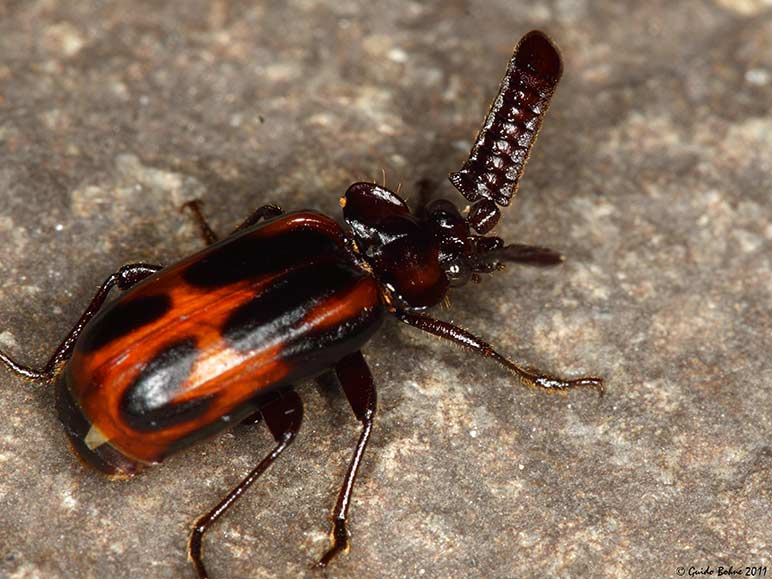
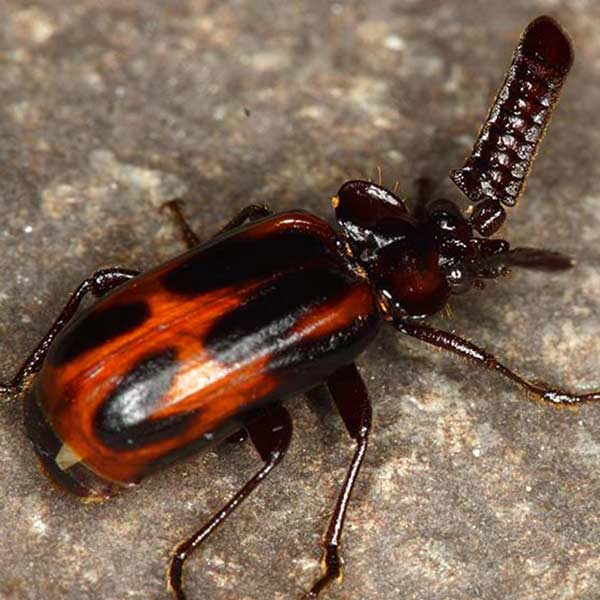
resized and saved images, created one div instead of multiple divs

diff --git a/css/main.css b/css/main.css
@@ -7,8 +7,23 @@ html{
 }
 
 body{
-  font-family:"Dosis";
+  font-family:"Dosis", sans-serif;
   margin:0;
+}
+
+
+/*header*/
+
+h1{
+  font-size:5rem;
+  font-style:bold;
+  font-weight:800;
+  text-align:center;
+  width:70%;
+  bottom:36px;
+  float:left;
+  font-family:"Dosis";
+  color:#512200;
 }
 
 header{
@@ -34,6 +49,10 @@ header{
   top:30px;
   right:5px;
 }
+
+
+/*Nav*/
+
 
 nav{
   overflow:hidden;
@@ -64,6 +83,9 @@ li:hover{
   width:20%;
 }
 
+
+/*Banner*/
+
 .life-forms{
   background-image: url("../images/59402778_e3fe0706d8_o.jpg");
   clear: both;
@@ -71,16 +93,12 @@ li:hover{
   margin:0;
 }
 
-h1{
-  font-size:5rem;
-  font-weight:800;
-  text-align:center;
-  width:70%;
-  bottom:36px;
-  float:left;
-  font-family:"Dosis";
-  color:#512200;
+.sand{
+  width:100%;
+  clear:both;
+  position:relative;
 }
+
 
 h2{
   font-family:"Dosis";
@@ -93,76 +111,46 @@ h2{
   margin:0;
   }
 
-.ant-image{
-  width:50%;
-  float:left;
-  position:relative;
-  display:block;
-}
+  /*Squares*/
 
-.dung-image{
-  width:50%;
-  float:left;
-  clear:both;
-  position:relative;
-  display:inline-block;
-  margin:0;
+.boxes{
+  width: 100%;
+  box-sizing: border-box;
 }
-
-.stag-image{
+.beetle{
     width:50%;
-    float:right;
+    float:left;
     position:relative;
-    display:inline-block;
+    display:block;
     margin:0;
 }
 
-.tortoise-image{
-  width:50%;
-  float:right;
-  position:relative;
-  display:inline-block;
+.boxes img{
+  width: 100%;
+  display: block;
+
 }
 
-.sand{
-  width:100%;
-  clear:both;
-  position:relative;
-}
 
-.figcaption{
-  font-size:30px;
+p{
+  display: block;
+  font-size: 30px;
   font-family:"Dosis";
-  color:white;
-  width:100%;
+  width:30%;
   text-align:center;
-  position:absolute;
-  top:33em;
-  clear:both;
-  z-index:9;
-}
-
-.button-left{
-  display: inline-block;
   padding: 0.5em 0.75em;
-  text-decoration:none;
+  text-decoration: none;
   color: #fff;
   background-color: #a8ae98;
   background-image: linear-gradient(to bottom, #6fc000, #388200);
-  border-radius:10px;
+  border-radius: 10px;
+  position: absolute;
+  bottom: 1em;
+  left: 10%;
+
 }
 
-.button-right{
-  display: inline-block;
-  padding: 0.5em 0.75em;
-  text-decoration:none;
-  color: #fff;
-  background-color: #a8ae98;
-  background-image: linear-gradient(to bottom, #6fc000, #388200);
-  border-radius:10px;
-  top:43px;
-}
-
+/*footer*/
 footer{
 background-color: rgba(81,34,0,0.4);
 position:relative;
@@ -175,5 +163,6 @@ width:100%;
 }
 
 .beetle-bottom{
-  margin:0 30% 0;
+  margin:0 45% 0;
+  width:50px;
 }

diff --git a/index.html b/index.html
@@ -9,46 +9,52 @@
 
 <body>
 
-  <header>
+<header>
     <img src="images/beetle-logo.svg" class="header-beetle-left" alt="small logo of a beetle">
     <h1>Beetles</h1>
     <img src="images/beetle-logo.svg" class="header-beetle-right" alt="small logo of a beetle">
 
-<div>
-  <nav>
-    <ul>
-      <li><a href="#">Ant Nest</a></li>
-      <li><a href="#">Stag</a></li>
-      <li><a href="#">Dung</a></li>
-      <li><a href="#">Tortoise</a></li>
-    </ul>
-  </nav>
-</div>
+    <div>
+      <nav>
+        <ul>
+          <li><a href="#">Ant Nest</a></li>
+          <li><a href="#">Stag</a></li>
+          <li><a href="#">Dung</a></li>
+          <li><a href="#">Tortoise</a></li>
+        </ul>
+      </nav>
+    </div>
 </header>
+
+
 
   <div class="life-forms">
     <h2>Beetles: 25% of all known animal life-forms.</h2>
   </div>
 
-  <div class="ant">
+<div class="boxes">
+
+  <div class="beetle">
         <img class="ant-image" src="images/ant-nest-beetle.jpg" alt="Image of Ant Nest Beetle">
-      <figcaption class="button-left"<ahref="#">Ant Nest</a></figcaption>
+      <p><a href="#">Ant Nest</a></p>
   </div>
 
-  <div class="stag">
+  <div class="beetle">
       <img class="stag-image" src="images/stag-beetle.jpg" alt="Image of Stag Beetle">
-      <figcaption class="button-right"<ahref="#">Stag</a></figcaption>
+      <p><a href="#">Stag</a></p>
   </div>
 
-  <div class="dung">
+  <div class="beetle">
       <img class="dung-image" src="images/dung-beetle.jpg" alt="Image of Dung Beetle">
-      <figcaption class="button-left"<ahref="#">Dung</a></figcaption>
+      <p><a href="#">Dung</a></p>
   </div>
 
-  <div class="tortoise">
+  <div class="beetle">
       <img class="tortoise-image" src="images/tortoise-beetle.jpg" alt="Image of Tortoise Beetle">
-      <figcaption class="button-right"<ahref="#">Tortoise</a></figcaption>
+      <p><a href="#">Tortoise</a></p>
   </div>
+
+</div><!--boxes-->
 
 <footer>
   <div class="foot">
